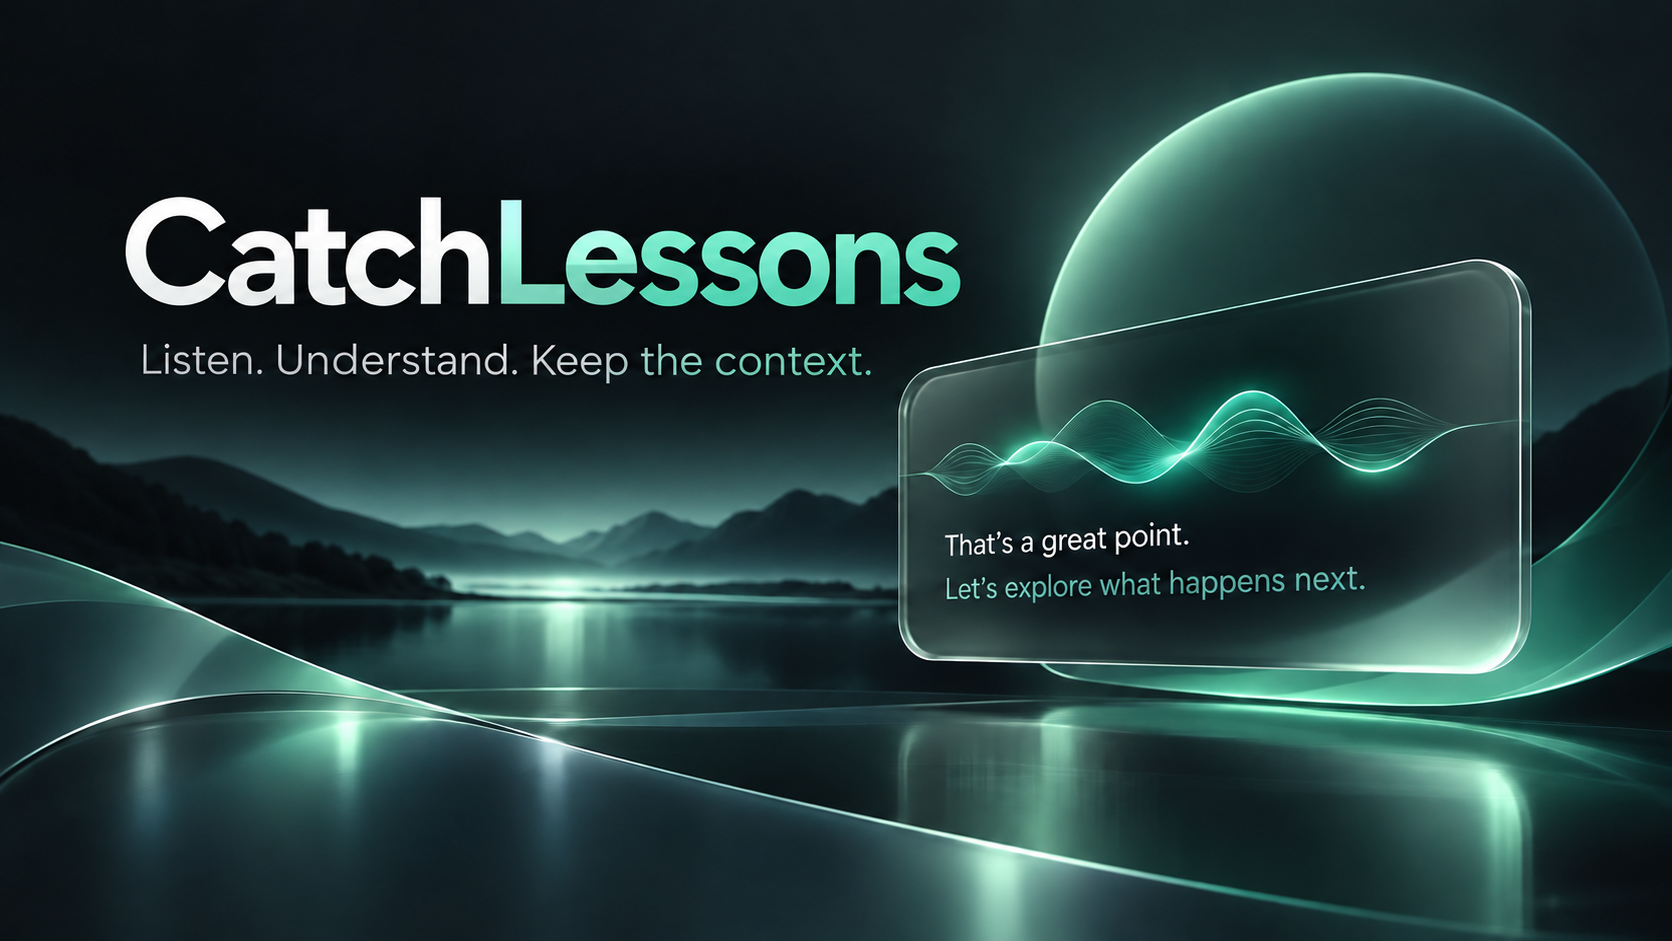
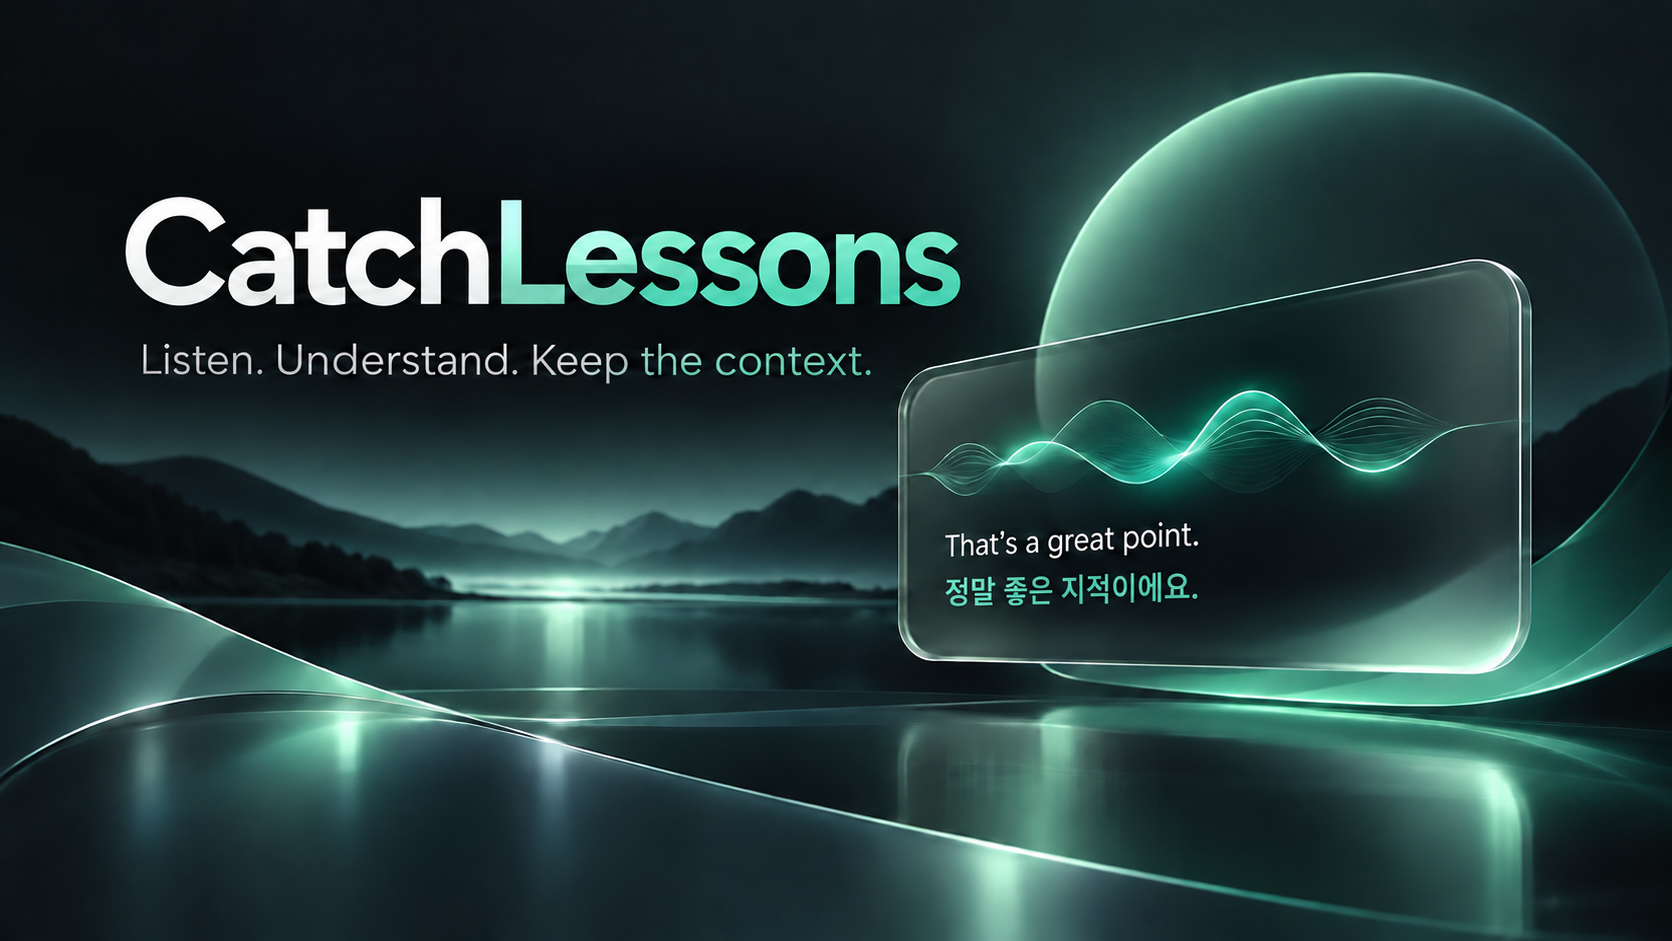
Show Korean translations in README images

Changed region(s): [[0.5598, 0.5547, 0.8086, 0.6472]]

diff --git a/MainWindow.xaml.cs b/MainWindow.xaml.cs
@@ -556,8 +556,8 @@ public partial class MainWindow : Window
     {
         EmptyText.Visibility = Visibility.Collapsed;
         StatusText.Text = UiText.T("미리보기 · 실제 음성을 처리하고 있지 않습니다");
-        rows.Add(new(new(1, "preview", 0, 3, "A small window. A clearer understanding.", UiText.T("작은 창으로, 더 선명하게 이해하세요."), "done")));
-        rows.Add(new(new(2, "preview2", 3, 7, "Keep listening. Your words are saved locally.", UiText.T("계속 들어보세요. 원문과 번역은 PC에 저장됩니다."), "done")));
+        rows.Add(new(new(1, "preview", 0, 3, "A small window. A clearer understanding.", "작은 창으로, 더 선명하게 이해하세요.", "done")));
+        rows.Add(new(new(2, "preview2", 3, 7, "Keep listening. Your words are saved locally.", "계속 들어보세요. 말한 내용은 PC에 저장됩니다.", "done")));
     }
     [DllImport("user32.dll")] private static extern bool ReleaseCapture();
     [DllImport("user32.dll")] private static extern IntPtr SendMessage(IntPtr hwnd, uint message, IntPtr wParam, IntPtr lParam);

diff --git a/README.md b/README.md
@@ -1,4 +1,4 @@
-<p align="center"><img src="Assets/readme-hero-catchlessons.png" alt="CatchLessons: listen, understand, and keep the context" width="100%"></p>
+<p align="center"><img src="Assets/readme-hero-catchlessons.png" alt="CatchLessons: English speech with Korean translation" width="100%"></p>
 
 # CatchLessons
 
@@ -8,7 +8,7 @@ A personal desktop app that captures system audio, shows the source transcript a
 
 > **Not instant real-time translation.** Source previews are provisional. Final captions are recognized in audio segments and translated through an agent request, so display can lag and earlier previews can change. Network, agent response, audio segmentation, and hardware all affect delay; no fixed latency is guaranteed.
 
-<p align="center"><img src="Assets/screenshot-main.png" alt="Illustrative CatchLessons window showing a floating caption interface" width="880"></p>
+<p align="center"><img src="Assets/screenshot-main.png" alt="CatchLessons floating captions showing English speech and Korean translations" width="880"></p>
 
 ## ✨ What it does
 
